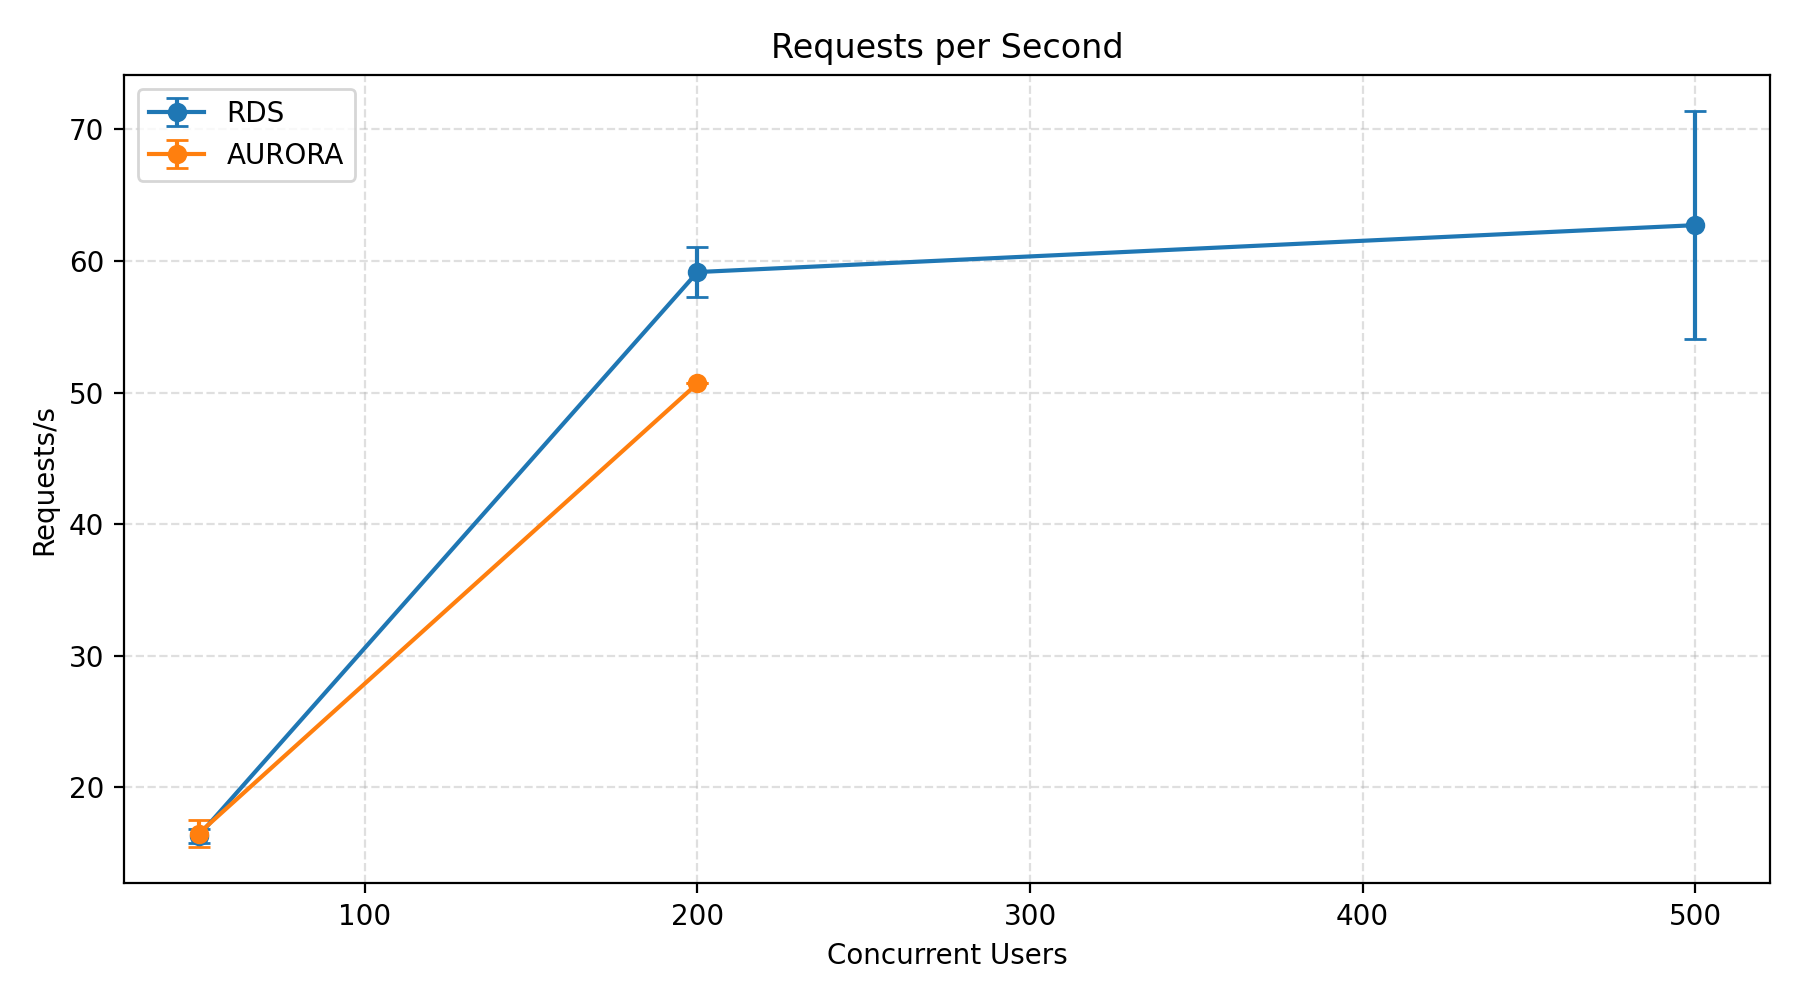
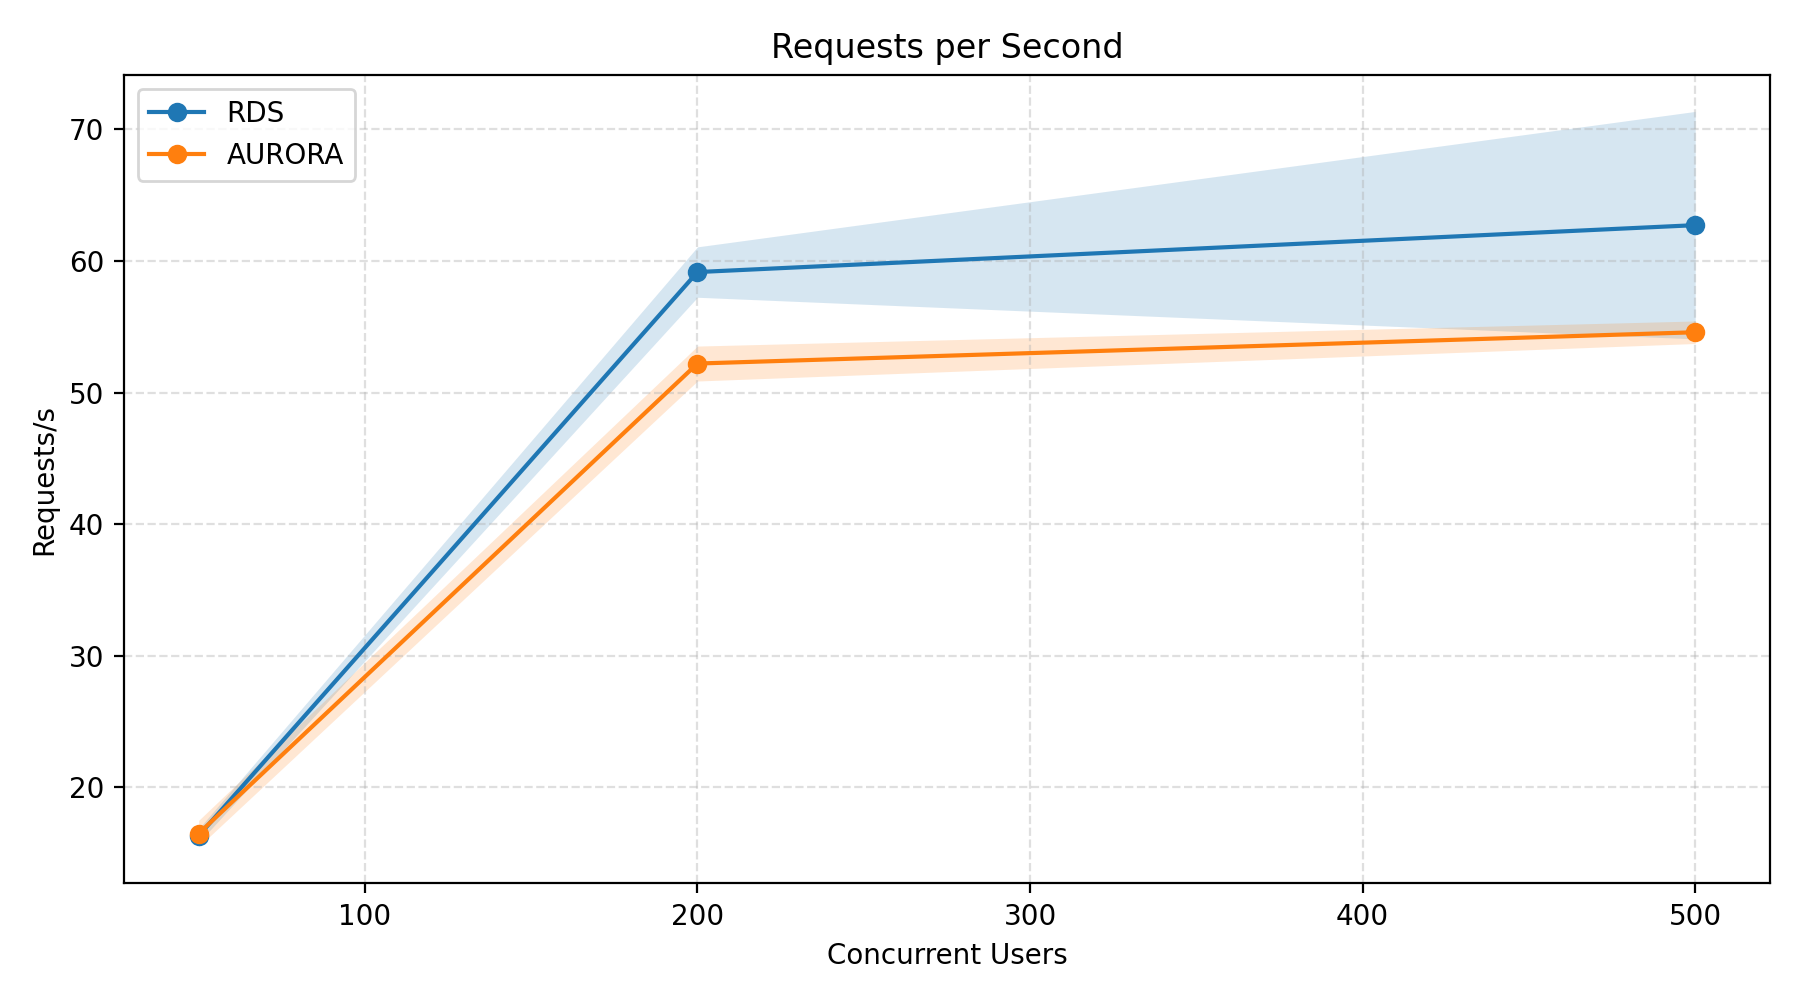
improve graphs for load testing results

Changed region(s): [[0.1244, 0.093, 0.9644, 0.806], [0.0933, 0.806, 0.1244, 0.837]]

diff --git a/load-testing/results/plot_results.py b/load-testing/results/plot_results.py
@@ -126,14 +126,22 @@ def plot_requests_per_s(
             means.append(mean_val)
             stds.append(std_val)
         if xs:
-            plt.errorbar(
+            lower = [mean - std for mean, std in zip(means, stds)]
+            upper = [mean + std for mean, std in zip(means, stds)]
+            plt.plot(
                 xs,
                 means,
-                yerr=stds,
                 marker="o",
                 label=config.upper(),
                 color=color,
-                capsize=4,
+            )
+            plt.fill_between(
+                xs,
+                lower,
+                upper,
+                color=color,
+                alpha=0.18,
+                linewidth=0,
             )
     plt.title("Requests per Second")
     plt.xlabel("Concurrent Users")
@@ -162,14 +170,22 @@ def plot_error_rate(data: dict[int, dict[str, list[Metric]]], output_dir: str) -
             means.append(mean_val)
             stds.append(std_val)
         if xs:
-            plt.errorbar(
+            lower = [mean - std for mean, std in zip(means, stds)]
+            upper = [mean + std for mean, std in zip(means, stds)]
+            plt.plot(
                 xs,
                 means,
-                yerr=stds,
                 marker="o",
                 label=config.upper(),
                 color=color,
-                capsize=4,
+            )
+            plt.fill_between(
+                xs,
+                lower,
+                upper,
+                color=color,
+                alpha=0.18,
+                linewidth=0,
             )
     plt.title("Error Rate")
     plt.xlabel("Concurrent Users")
@@ -205,15 +221,23 @@ def plot_latency(data: dict[int, dict[str, list[Metric]]], output_dir: str) -> N
             stds.append(std_val)
         if xs:
             line_style = "--" if "p95" in label.lower() else "-"
-            plt.errorbar(
+            lower = [mean - std for mean, std in zip(means, stds)]
+            upper = [mean + std for mean, std in zip(means, stds)]
+            plt.plot(
                 xs,
                 means,
-                yerr=stds,
                 marker="o",
                 label=label,
                 color=color,
                 linestyle=line_style,
-                capsize=4,
+            )
+            plt.fill_between(
+                xs,
+                lower,
+                upper,
+                color=color,
+                alpha=0.14 if "p95" in label.lower() else 0.18,
+                linewidth=0,
             )
     plt.title("Latency")
     plt.xlabel("Concurrent Users")